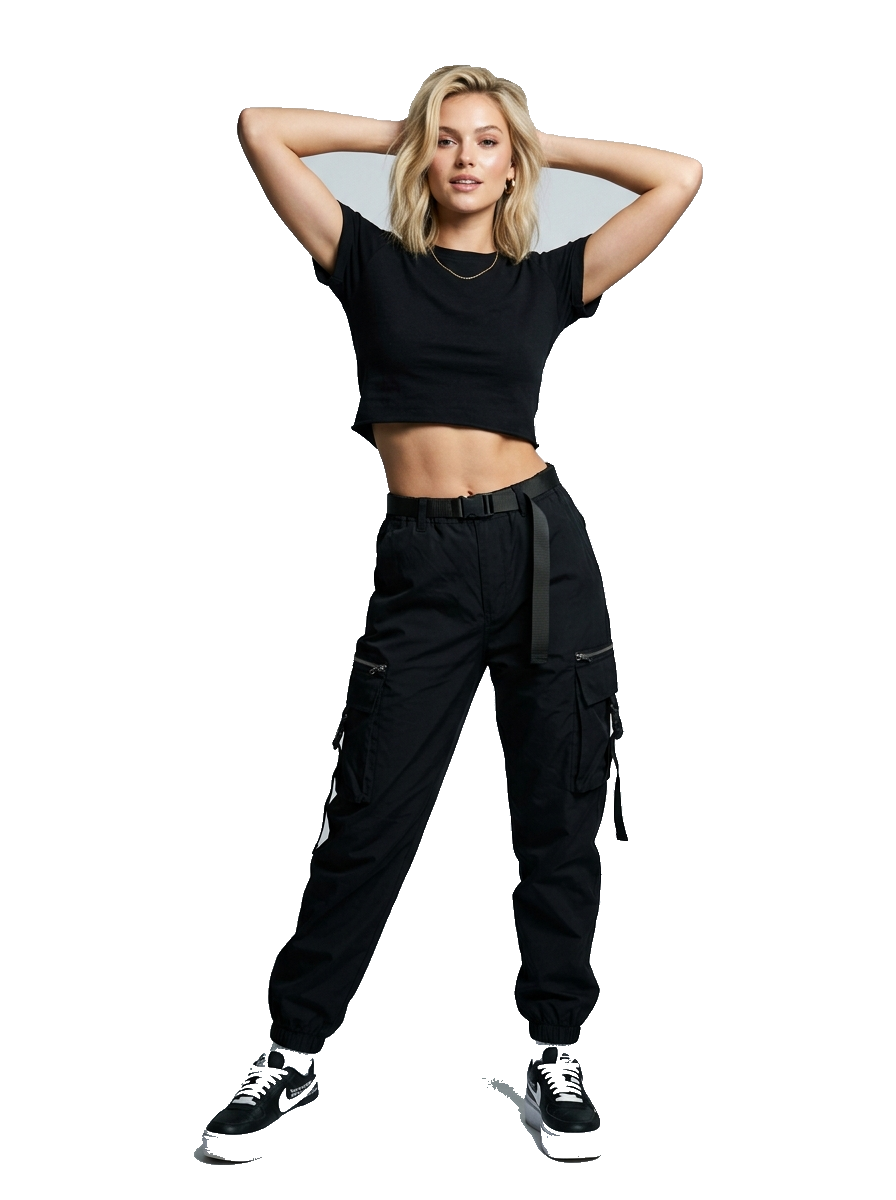
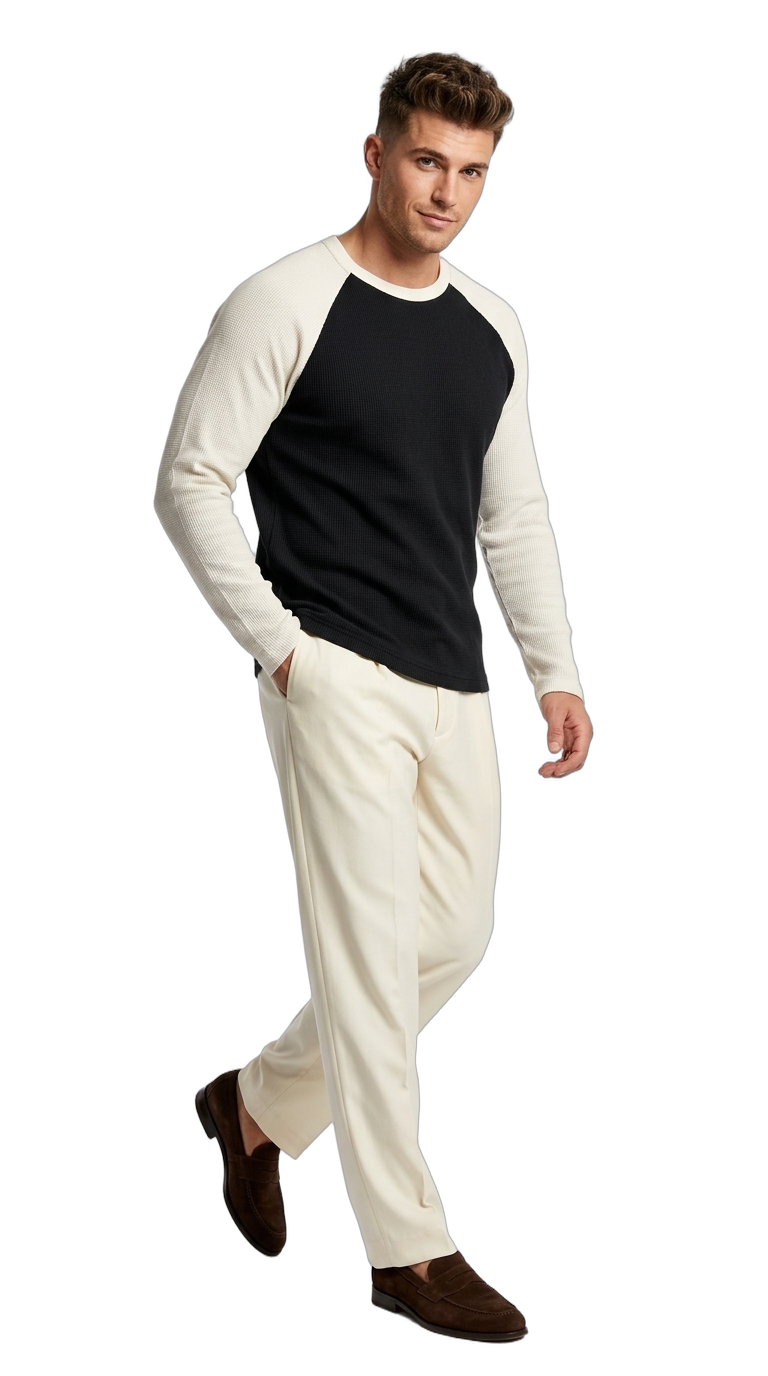
Update menswear models and custom waffle-knit shirts with luxury tailored trousers

Changed region(s): [[0.1875, 0.0308, 0.7812, 0.9867]]

diff --git a/components/CollectionGrid.tsx b/components/CollectionGrid.tsx
@@ -14,74 +14,78 @@ interface Product {
   badge?: string;
 }
 
+const basePath = process.env.NEXT_PUBLIC_BASE_PATH || "";
+
 const PRODUCTS: Product[] = [
   {
     id: "p1",
-    name: "SCULPTED SILK TRENCH",
-    category: "summer",
-    categoryLabel: "SUMMER CAPSULE",
-    price: "$680.00",
-    image: "https://images.unsplash.com/photo-1509631179647-0177331693ae?auto=format&fit=crop&w=800&q=80",
-    badge: "RUNWAY EXCLUSIVE",
+    name: "RAGLAN WAFFLE KNIT — ONYX / CHALK",
+    category: "new",
+    categoryLabel: "FLAGSHIP CAPSULE",
+    price: "$145.00",
+    image: `${basePath}/images/product-raglan-black-white.jpg`,
+    badge: "MAIN RUNWAY",
   },
   {
     id: "p2",
-    name: "ASYMMETRIC PLEATED BLOUSE",
-    category: "new",
-    categoryLabel: "NEW ARRIVALS",
-    price: "$340.00",
-    image: "https://images.unsplash.com/photo-1515886657613-9f3515b0c78f?auto=format&fit=crop&w=800&q=80",
-    badge: "EDITORIAL PICK",
+    name: "HERITAGE WAFFLE HENLEY — DUSTY ROSE",
+    category: "summer",
+    categoryLabel: "CLASSIC CUT",
+    price: "$130.00",
+    image: `${basePath}/images/product-henley-pink.jpg`,
+    badge: "BESTSELLER",
   },
   {
     id: "p3",
-    name: "MONOCHROME MINIMALIST BLAZER",
-    category: "tailored",
-    categoryLabel: "TAILORED ATELIER",
-    price: "$520.00",
-    image: "https://images.unsplash.com/photo-1539109136881-3be0616acf4b?auto=format&fit=crop&w=800&q=80",
+    name: "RAGLAN WAFFLE KNIT — CARAMEL / ONYX",
+    category: "new",
+    categoryLabel: "SUMMER CAPSULE",
+    price: "$145.00",
+    image: `${basePath}/images/product-raglan-brown-black.jpg`,
+    badge: "NEW ARRIVAL",
   },
   {
     id: "p4",
-    name: "ARCHITECTURAL CARGO TROUSER",
+    name: "RAGLAN WAFFLE KNIT — CHALK / ROSE",
     category: "summer",
     categoryLabel: "SUMMER CAPSULE",
-    price: "$290.00",
-    image: "https://images.unsplash.com/photo-1529139574466-a303027c1d8b?auto=format&fit=crop&w=800&q=80",
+    price: "$145.00",
+    image: `${basePath}/images/product-raglan-white-pink.jpg`,
+    badge: "EDITORIAL PICK",
   },
   {
     id: "p5",
-    name: "STRUCTURED LEATHER TOTE",
-    category: "accessories",
-    categoryLabel: "ACCESSORIES",
-    price: "$450.00",
-    image: "https://images.unsplash.com/photo-1558769132-cb1aea458c5e?auto=format&fit=crop&w=800&q=80",
-    badge: "HAND-CRAFTED",
-  },
-  {
-    id: "p6",
-    name: "GEOMETRIC RUNWAY EYEWEAR",
-    category: "accessories",
-    categoryLabel: "ACCESSORIES",
-    price: "$210.00",
-    image: "https://images.unsplash.com/photo-1485230895905-ec40ba36b9bc?auto=format&fit=crop&w=800&q=80",
-  },
-  {
-    id: "p7",
-    name: "OVERSIZED CASHMERE OVERCOAT",
-    category: "winter",
-    categoryLabel: "WINTER CAPSULE",
-    price: "$890.00",
-    image: "https://images.unsplash.com/photo-1508427953056-b00b8d78ebf5?auto=format&fit=crop&w=800&q=80",
+    name: "RAGLAN WAFFLE KNIT — ROSE / CHALK",
+    category: "summer",
+    categoryLabel: "SUMMER CAPSULE",
+    price: "$145.00",
+    image: `${basePath}/images/product-raglan-pink-white.jpg`,
     badge: "LIMITED RUN",
   },
   {
-    id: "p8",
-    name: "DOUBLE-BREASTED MERINO SUIT",
+    id: "p6",
+    name: "ARCHITECTURAL CARGO TROUSER",
     category: "tailored",
-    categoryLabel: "TAILORED ATELIER",
-    price: "$780.00",
-    image: "https://images.unsplash.com/photo-1490481651871-ab68de25d43d?auto=format&fit=crop&w=800&q=80",
+    categoryLabel: "MENSWEAR ESSENTIAL",
+    price: "$220.00",
+    image: "https://images.unsplash.com/photo-1552374196-1ab2a1c593e8?auto=format&fit=crop&w=800&q=80",
+    badge: "STAPLE",
+  },
+  {
+    id: "p7",
+    name: "MINIMALIST LEATHER COMMUTER PACK",
+    category: "accessories",
+    categoryLabel: "ACCESSORIES",
+    price: "$340.00",
+    image: "https://images.unsplash.com/photo-1553062407-98eeb64c6a62?auto=format&fit=crop&w=800&q=80",
+  },
+  {
+    id: "p8",
+    name: "CHRONO MONOCHROME SUNGLASSES",
+    category: "accessories",
+    categoryLabel: "ACCESSORIES",
+    price: "$180.00",
+    image: "https://images.unsplash.com/photo-1511499767150-a48a237f0083?auto=format&fit=crop&w=800&q=80",
   },
 ];
 

diff --git a/components/SummerBento.tsx b/components/SummerBento.tsx
@@ -4,23 +4,24 @@ import React, { useState } from "react";
 import { ArrowUpRight } from "lucide-react";
 
 const SWATCHES = [
-  { id: "marble", bg: "radial-gradient(circle, #fff, #bbb)", label: "Marble Silk" },
-  { id: "black", bg: "#171717", label: "Midnight Onyx" },
-  { id: "tan", bg: "#d4a359", label: "Sunlit Sand" },
-  { id: "dusty-rose", bg: "#c96f73", label: "Desert Coral" },
-  { id: "sage", bg: "#7e9f95", label: "Nordic Sage" },
+  { id: "caramel", bg: "#9e5e33", label: "Caramel / Black Raglan", image: "/images/summer-bento-stairs.jpg" },
+  { id: "black", bg: "#171717", label: "Onyx / Off-White Raglan", image: "/images/product-raglan-black-white.jpg" },
+  { id: "dusty-rose", bg: "#c96f73", label: "Heritage Pink Henley", image: "/images/product-henley-pink.jpg" },
+  { id: "chalk-rose", bg: "linear-gradient(135deg, #f5f5f5 50%, #c96f73 50%)", label: "Chalk / Rose Raglan", image: "/images/product-raglan-white-pink.jpg" },
+  { id: "rose-chalk", bg: "linear-gradient(135deg, #c96f73 50%, #f5f5f5 50%)", label: "Rose / Chalk Raglan", image: "/images/product-raglan-pink-white.jpg" },
 ];
 
 const PILL_TAGS = [
-  "100% COTTON MADE",
-  "NEW VERSATILE STYLES",
-  "ECO-FRIENDLY MATERIALS",
-  "UPF PROTECTION",
+  "100% COTTON WAFFLE KNIT",
+  "RAGLAN & HENLEY CUTS",
+  "BREATHABLE THERMAL WEAVE",
+  "MENSWEAR CAPSULE",
 ];
 
 export default function SummerBento() {
   const basePath = process.env.NEXT_PUBLIC_BASE_PATH || "";
-  const [selectedSwatch, setSelectedSwatch] = useState("tan");
+  const [selectedSwatch, setSelectedSwatch] = useState("caramel");
+  const activeSwatch = SWATCHES.find((s) => s.id === selectedSwatch) || SWATCHES[0];
 
   return (
     <section
@@ -44,13 +45,14 @@ export default function SummerBento() {
             {/* Top Card: Model on Stairs with 5 Swatches */}
             <div className="relative aspect-[16/11] flex-1 rounded-[30px] md:rounded-[38px] overflow-hidden border-2 border-black/15 bg-white group shadow-xl">
               <img
-                src={`${basePath}/images/summer-bento-stairs.jpg`}
-                alt="RD Fashion Summer Capsule"
-                className="w-full h-full object-cover object-center transition-transform duration-700 ease-out group-hover:scale-105"
+                key={activeSwatch.id}
+                src={`${basePath}${activeSwatch.image}`}
+                alt={`RD Fashion Menswear - ${activeSwatch.label}`}
+                className="w-full h-full object-cover object-center transition-all duration-500 ease-out group-hover:scale-105"
               />
 
               {/* 5 Stacked Circular Color Swatches on the Right Side */}
-              <div className="absolute top-5 right-5 sm:top-6 sm:right-6 flex flex-col gap-2.5 z-20 bg-white/75 backdrop-blur-md p-2 rounded-full border border-black/15 shadow-md">
+              <div className="absolute top-5 right-5 sm:top-6 sm:right-6 flex flex-col gap-2.5 z-20 bg-white/85 backdrop-blur-md p-2 rounded-full border border-black/15 shadow-md">
                 {SWATCHES.map((swatch) => (
                   <button
                     key={swatch.id}
@@ -58,7 +60,7 @@ export default function SummerBento() {
                     title={swatch.label}
                     className={`w-7 h-7 sm:w-8 sm:h-8 rounded-full border-2 transition-all duration-200 ${
                       selectedSwatch === swatch.id
-                        ? "border-[#ff461e] scale-115 shadow-md shadow-[#ff461e]/40"
+                        ? "border-[#ff461e] scale-115 shadow-md shadow-[#ff461e]/40 ring-2 ring-black/20"
                         : "border-black/30 hover:scale-110"
                     }`}
                     style={{ background: swatch.bg }}
